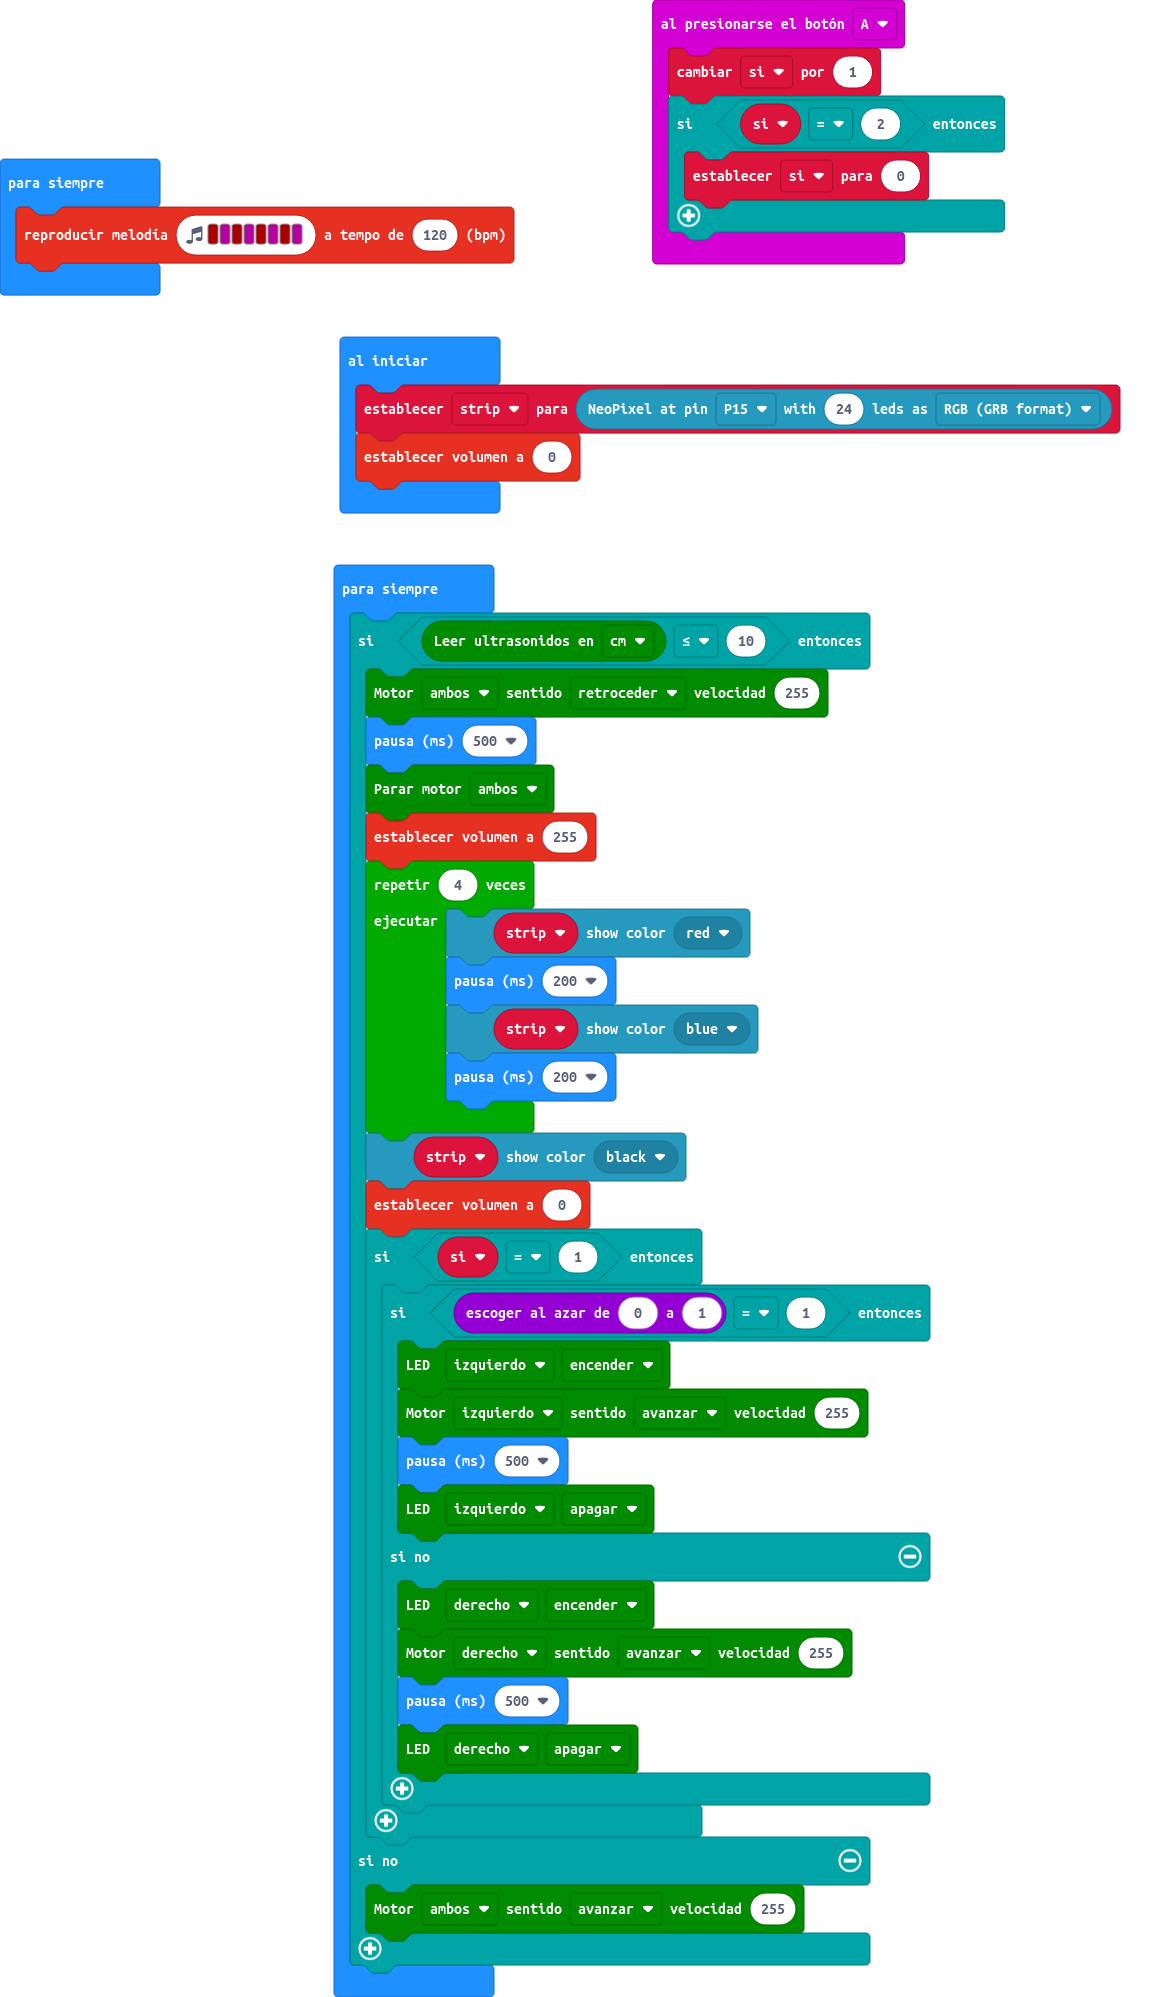
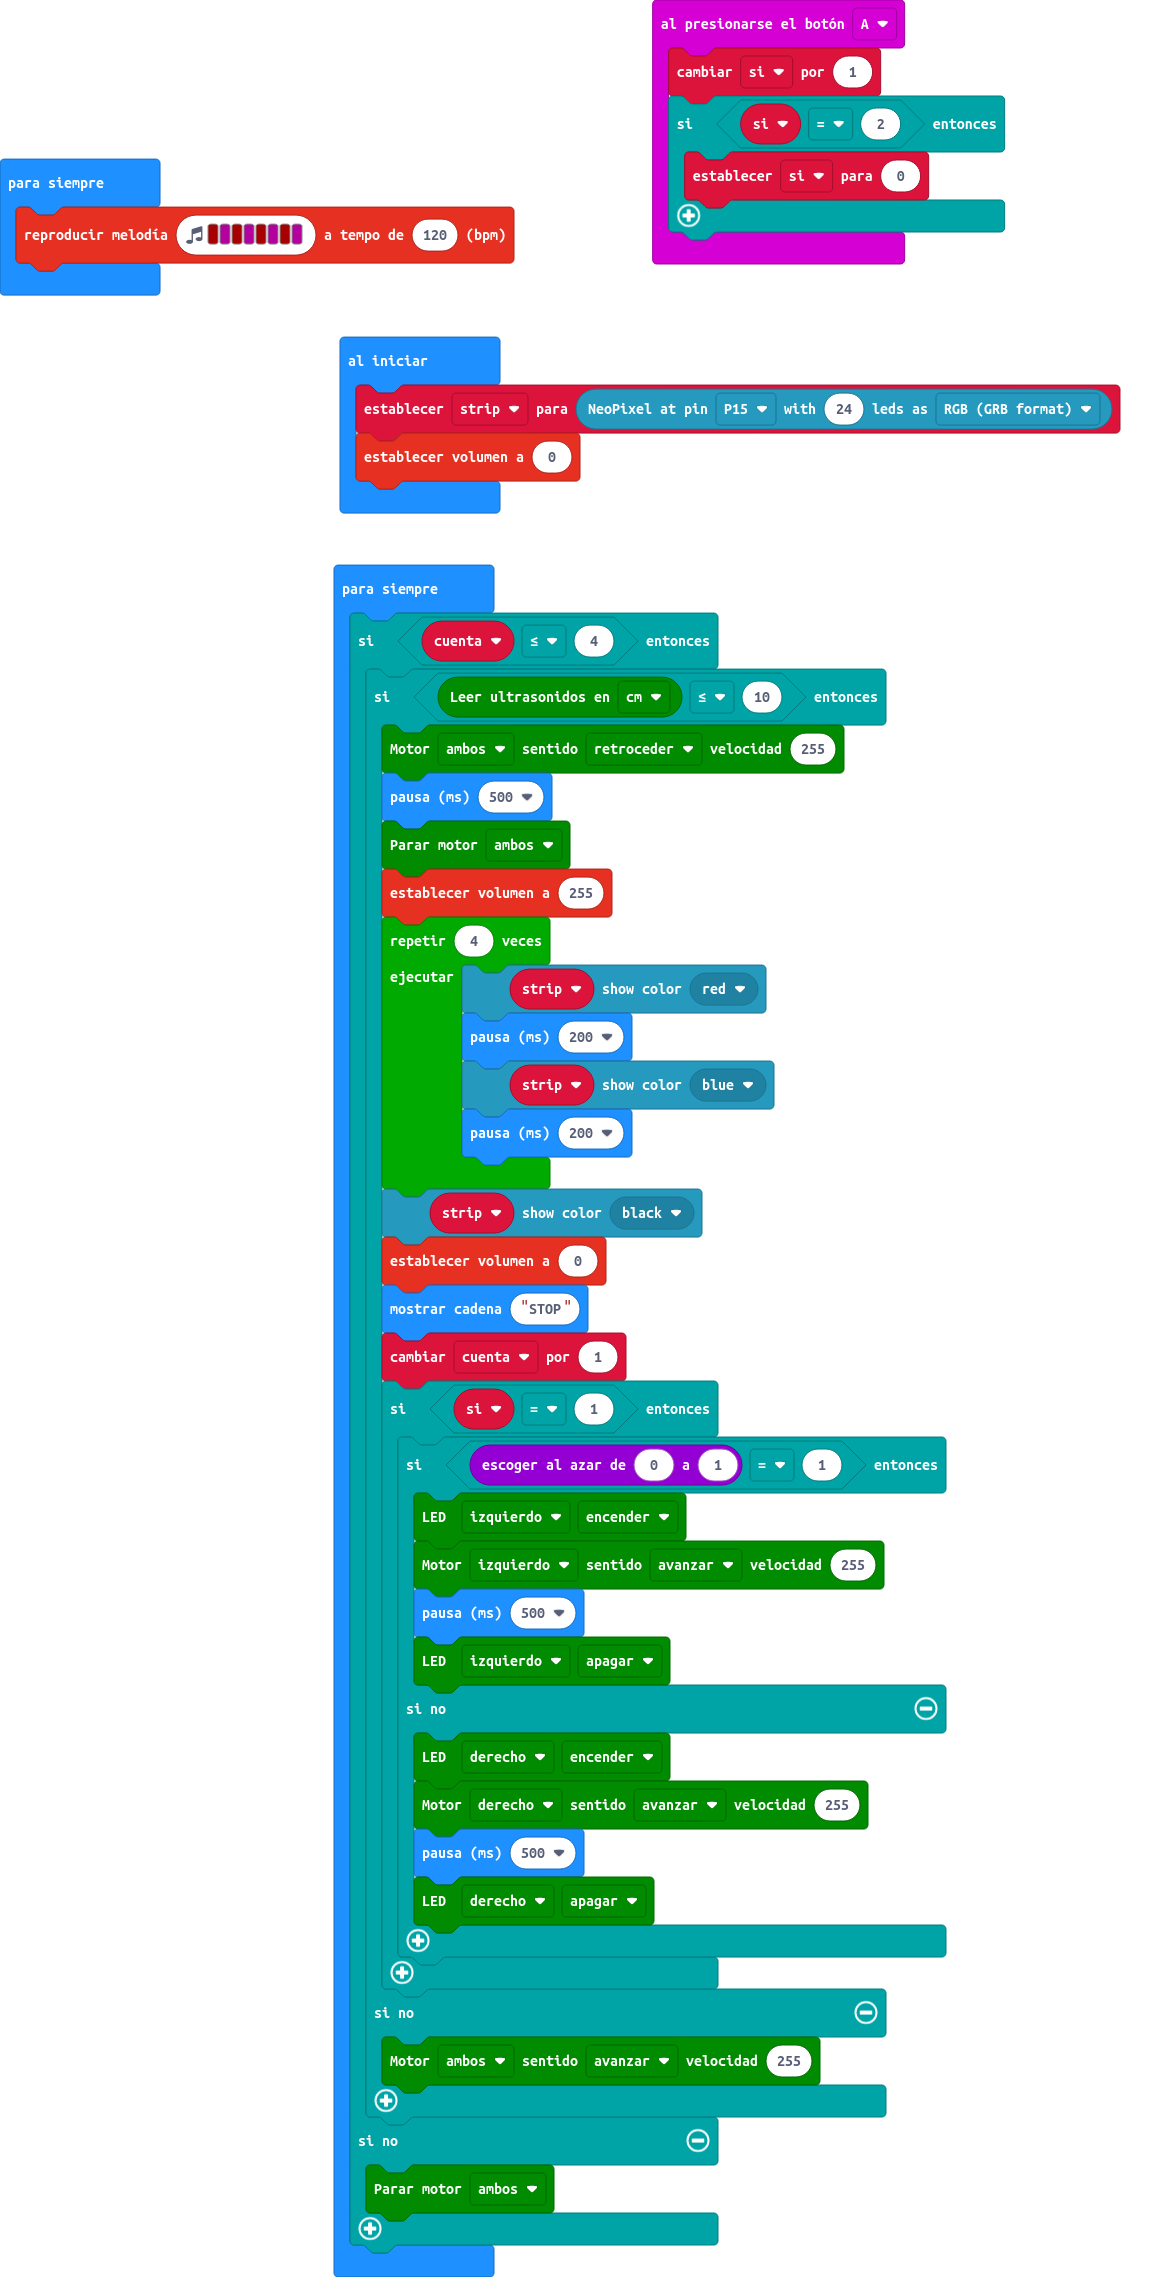
Actualizar main.blocks, main.ts

Changed region(s): [[0.0, 0.0, 0.9829, 0.9935]]

diff --git a/main.ts b/main.ts
@@ -4,6 +4,7 @@ input.onButtonPressed(Button.A, function () {
         si = 0
     }
 })
+let cuenta = 0
 let si = 0
 let strip = neopixel.create(DigitalPin.P15, 24, NeoPixelMode.RGB)
 music.setVolume(0)
@@ -11,33 +12,39 @@ basic.forever(function () {
     music.playMelody("C5 C C5 C C5 C C5 C ", 120)
 })
 basic.forever(function () {
-    if (maqueen.Ultrasonic(PingUnit.Centimeters) <= 10) {
-        maqueen.motorRun(maqueen.Motors.All, maqueen.Dir.CCW, 255)
-        basic.pause(500)
-        maqueen.motorStop(maqueen.Motors.All)
-        music.setVolume(255)
-        for (let index = 0; index < 4; index++) {
-            strip.showColor(neopixel.colors(NeoPixelColors.Red))
-            basic.pause(200)
-            strip.showColor(neopixel.colors(NeoPixelColors.Blue))
-            basic.pause(200)
-        }
-        strip.showColor(neopixel.colors(NeoPixelColors.Black))
-        music.setVolume(0)
-        if (si == 1) {
-            if (randint(0, 1) == 1) {
-                maqueen.writeLED(maqueen.LED.LEDRight, maqueen.LEDswitch.turnOn)
-                maqueen.motorRun(maqueen.Motors.M1, maqueen.Dir.CW, 255)
-                basic.pause(500)
-                maqueen.writeLED(maqueen.LED.LEDRight, maqueen.LEDswitch.turnOff)
-            } else {
-                maqueen.writeLED(maqueen.LED.LEDLeft, maqueen.LEDswitch.turnOn)
-                maqueen.motorRun(maqueen.Motors.M2, maqueen.Dir.CW, 255)
-                basic.pause(500)
-                maqueen.writeLED(maqueen.LED.LEDLeft, maqueen.LEDswitch.turnOff)
+    if (cuenta <= 4) {
+        if (maqueen.Ultrasonic(PingUnit.Centimeters) <= 10) {
+            maqueen.motorRun(maqueen.Motors.All, maqueen.Dir.CCW, 255)
+            basic.pause(500)
+            maqueen.motorStop(maqueen.Motors.All)
+            music.setVolume(255)
+            for (let index = 0; index < 4; index++) {
+                strip.showColor(neopixel.colors(NeoPixelColors.Red))
+                basic.pause(200)
+                strip.showColor(neopixel.colors(NeoPixelColors.Blue))
+                basic.pause(200)
             }
+            strip.showColor(neopixel.colors(NeoPixelColors.Black))
+            music.setVolume(0)
+            basic.showString("STOP")
+            cuenta += 1
+            if (si == 1) {
+                if (randint(0, 1) == 1) {
+                    maqueen.writeLED(maqueen.LED.LEDRight, maqueen.LEDswitch.turnOn)
+                    maqueen.motorRun(maqueen.Motors.M1, maqueen.Dir.CW, 255)
+                    basic.pause(500)
+                    maqueen.writeLED(maqueen.LED.LEDRight, maqueen.LEDswitch.turnOff)
+                } else {
+                    maqueen.writeLED(maqueen.LED.LEDLeft, maqueen.LEDswitch.turnOn)
+                    maqueen.motorRun(maqueen.Motors.M2, maqueen.Dir.CW, 255)
+                    basic.pause(500)
+                    maqueen.writeLED(maqueen.LED.LEDLeft, maqueen.LEDswitch.turnOff)
+                }
+            }
+        } else {
+            maqueen.motorRun(maqueen.Motors.All, maqueen.Dir.CW, 255)
         }
     } else {
-        maqueen.motorRun(maqueen.Motors.All, maqueen.Dir.CW, 255)
+        maqueen.motorStop(maqueen.Motors.All)
     }
 })
